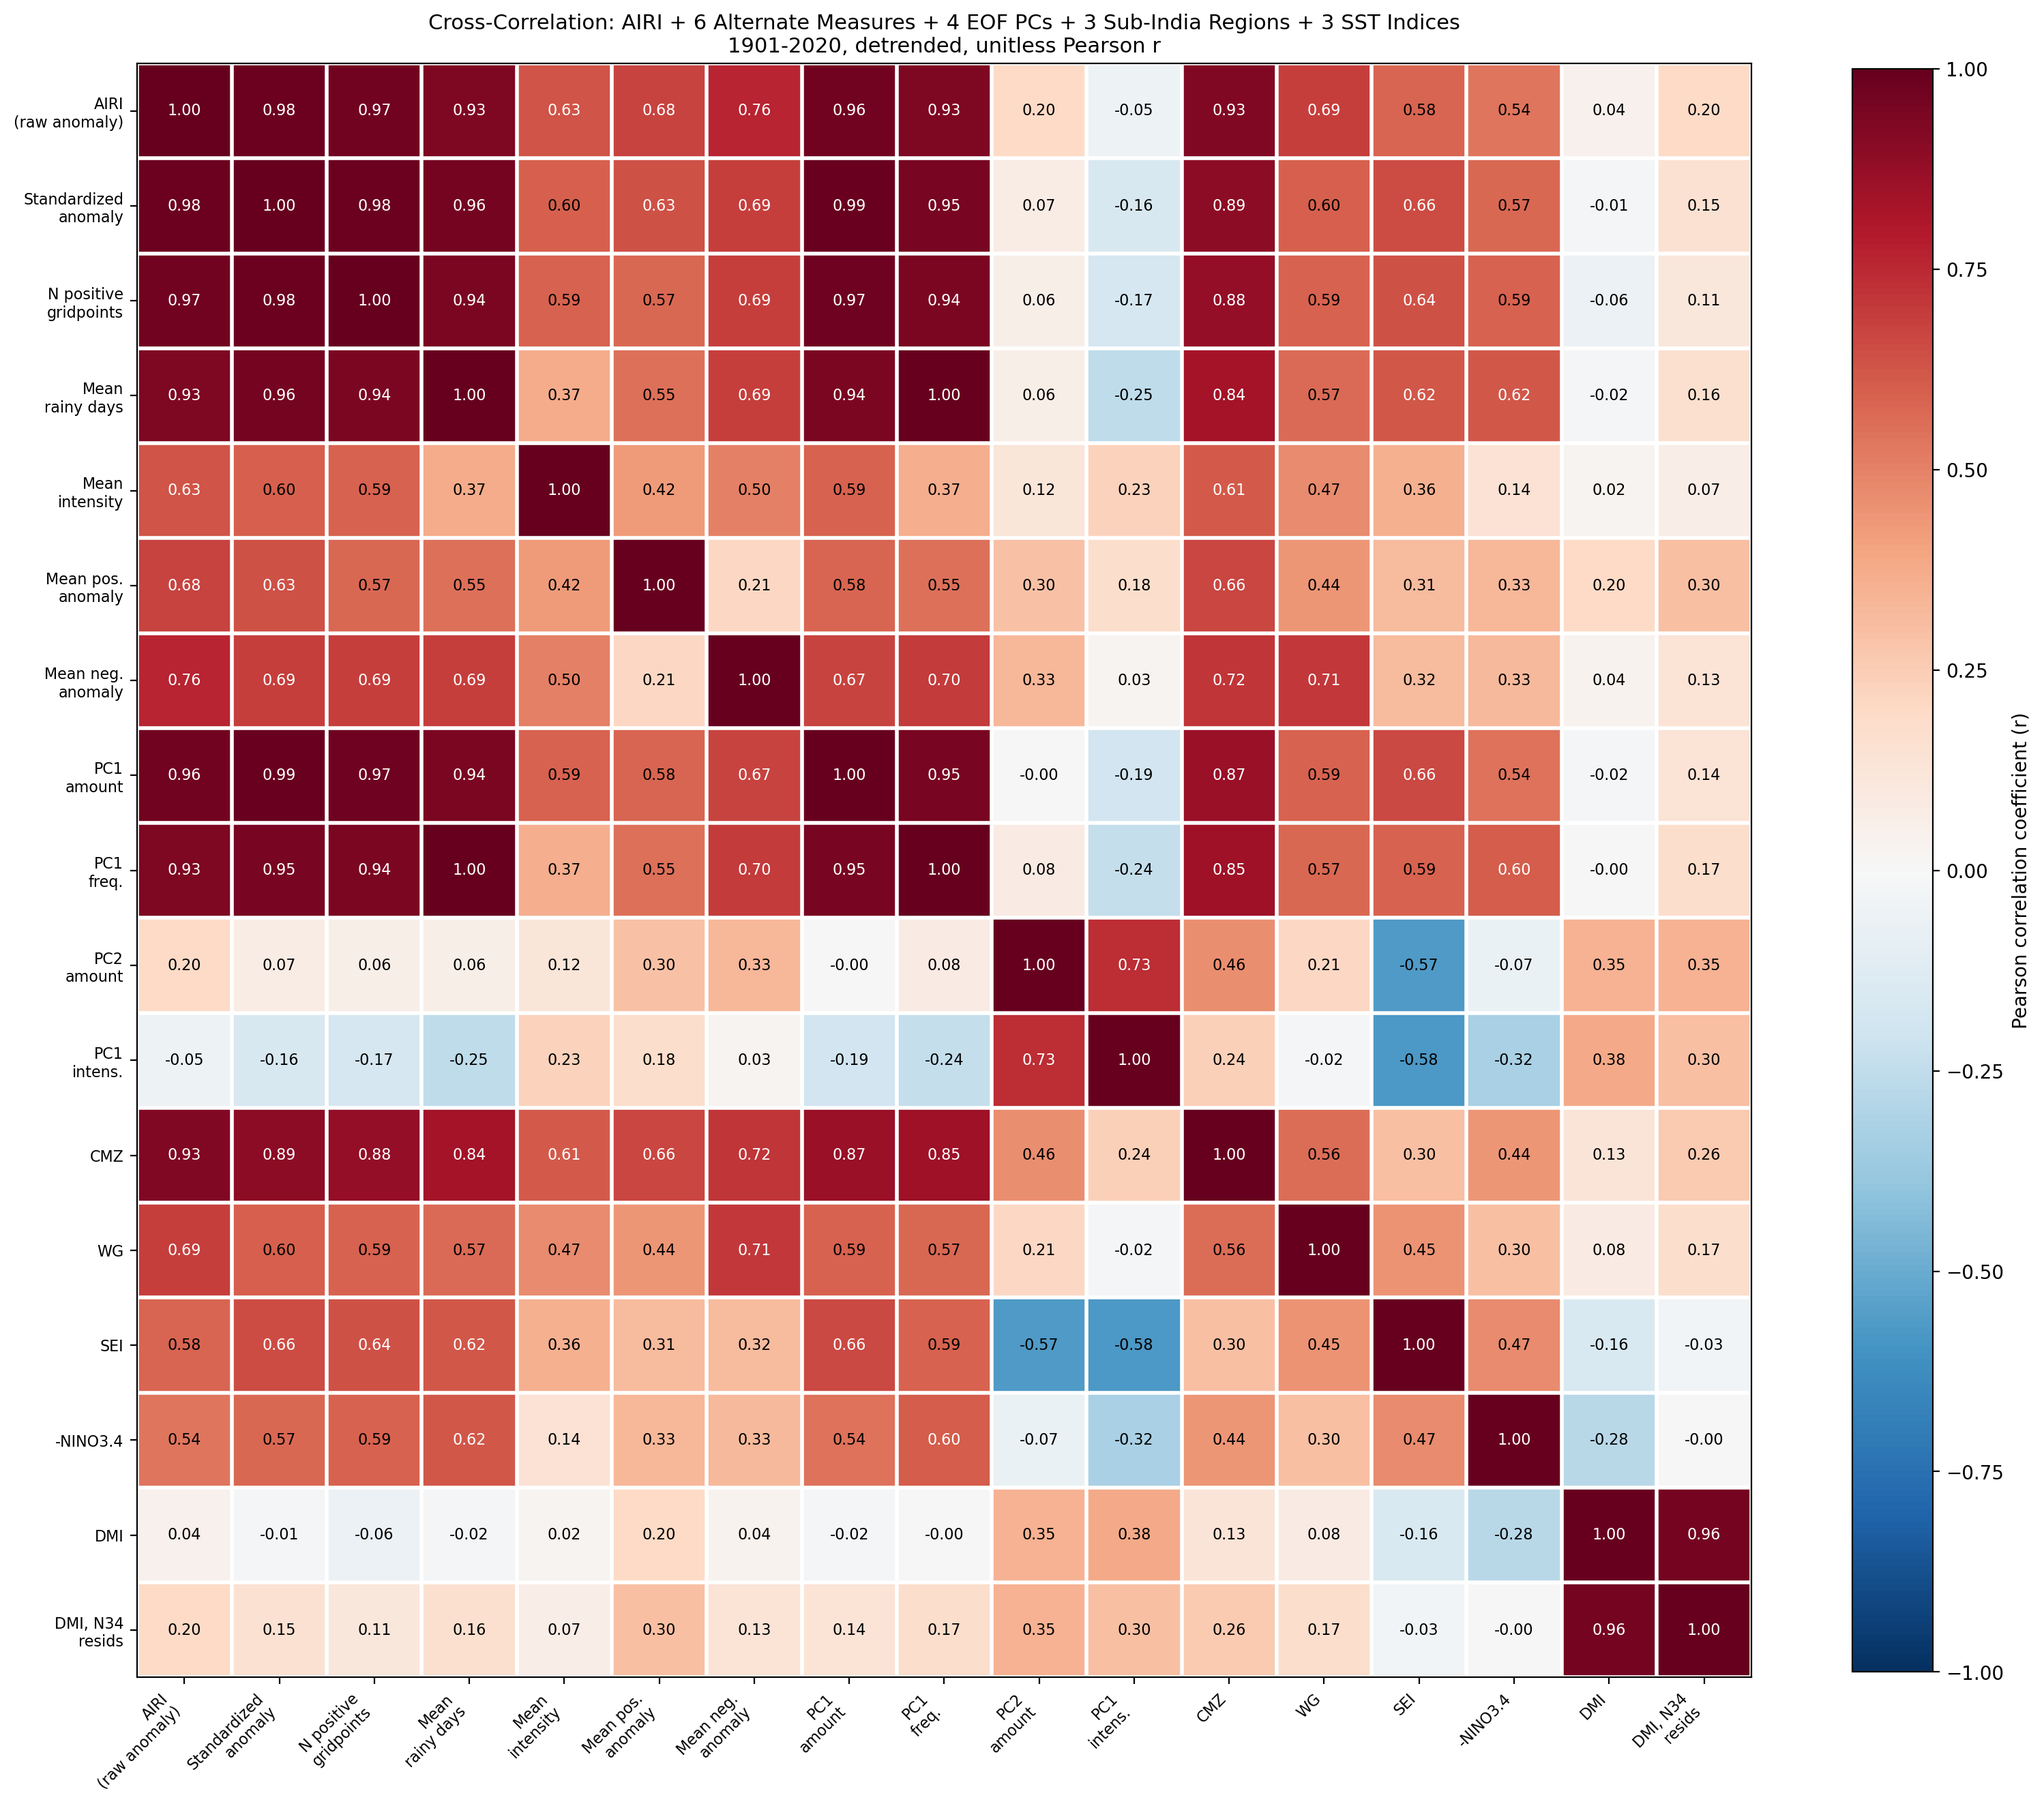
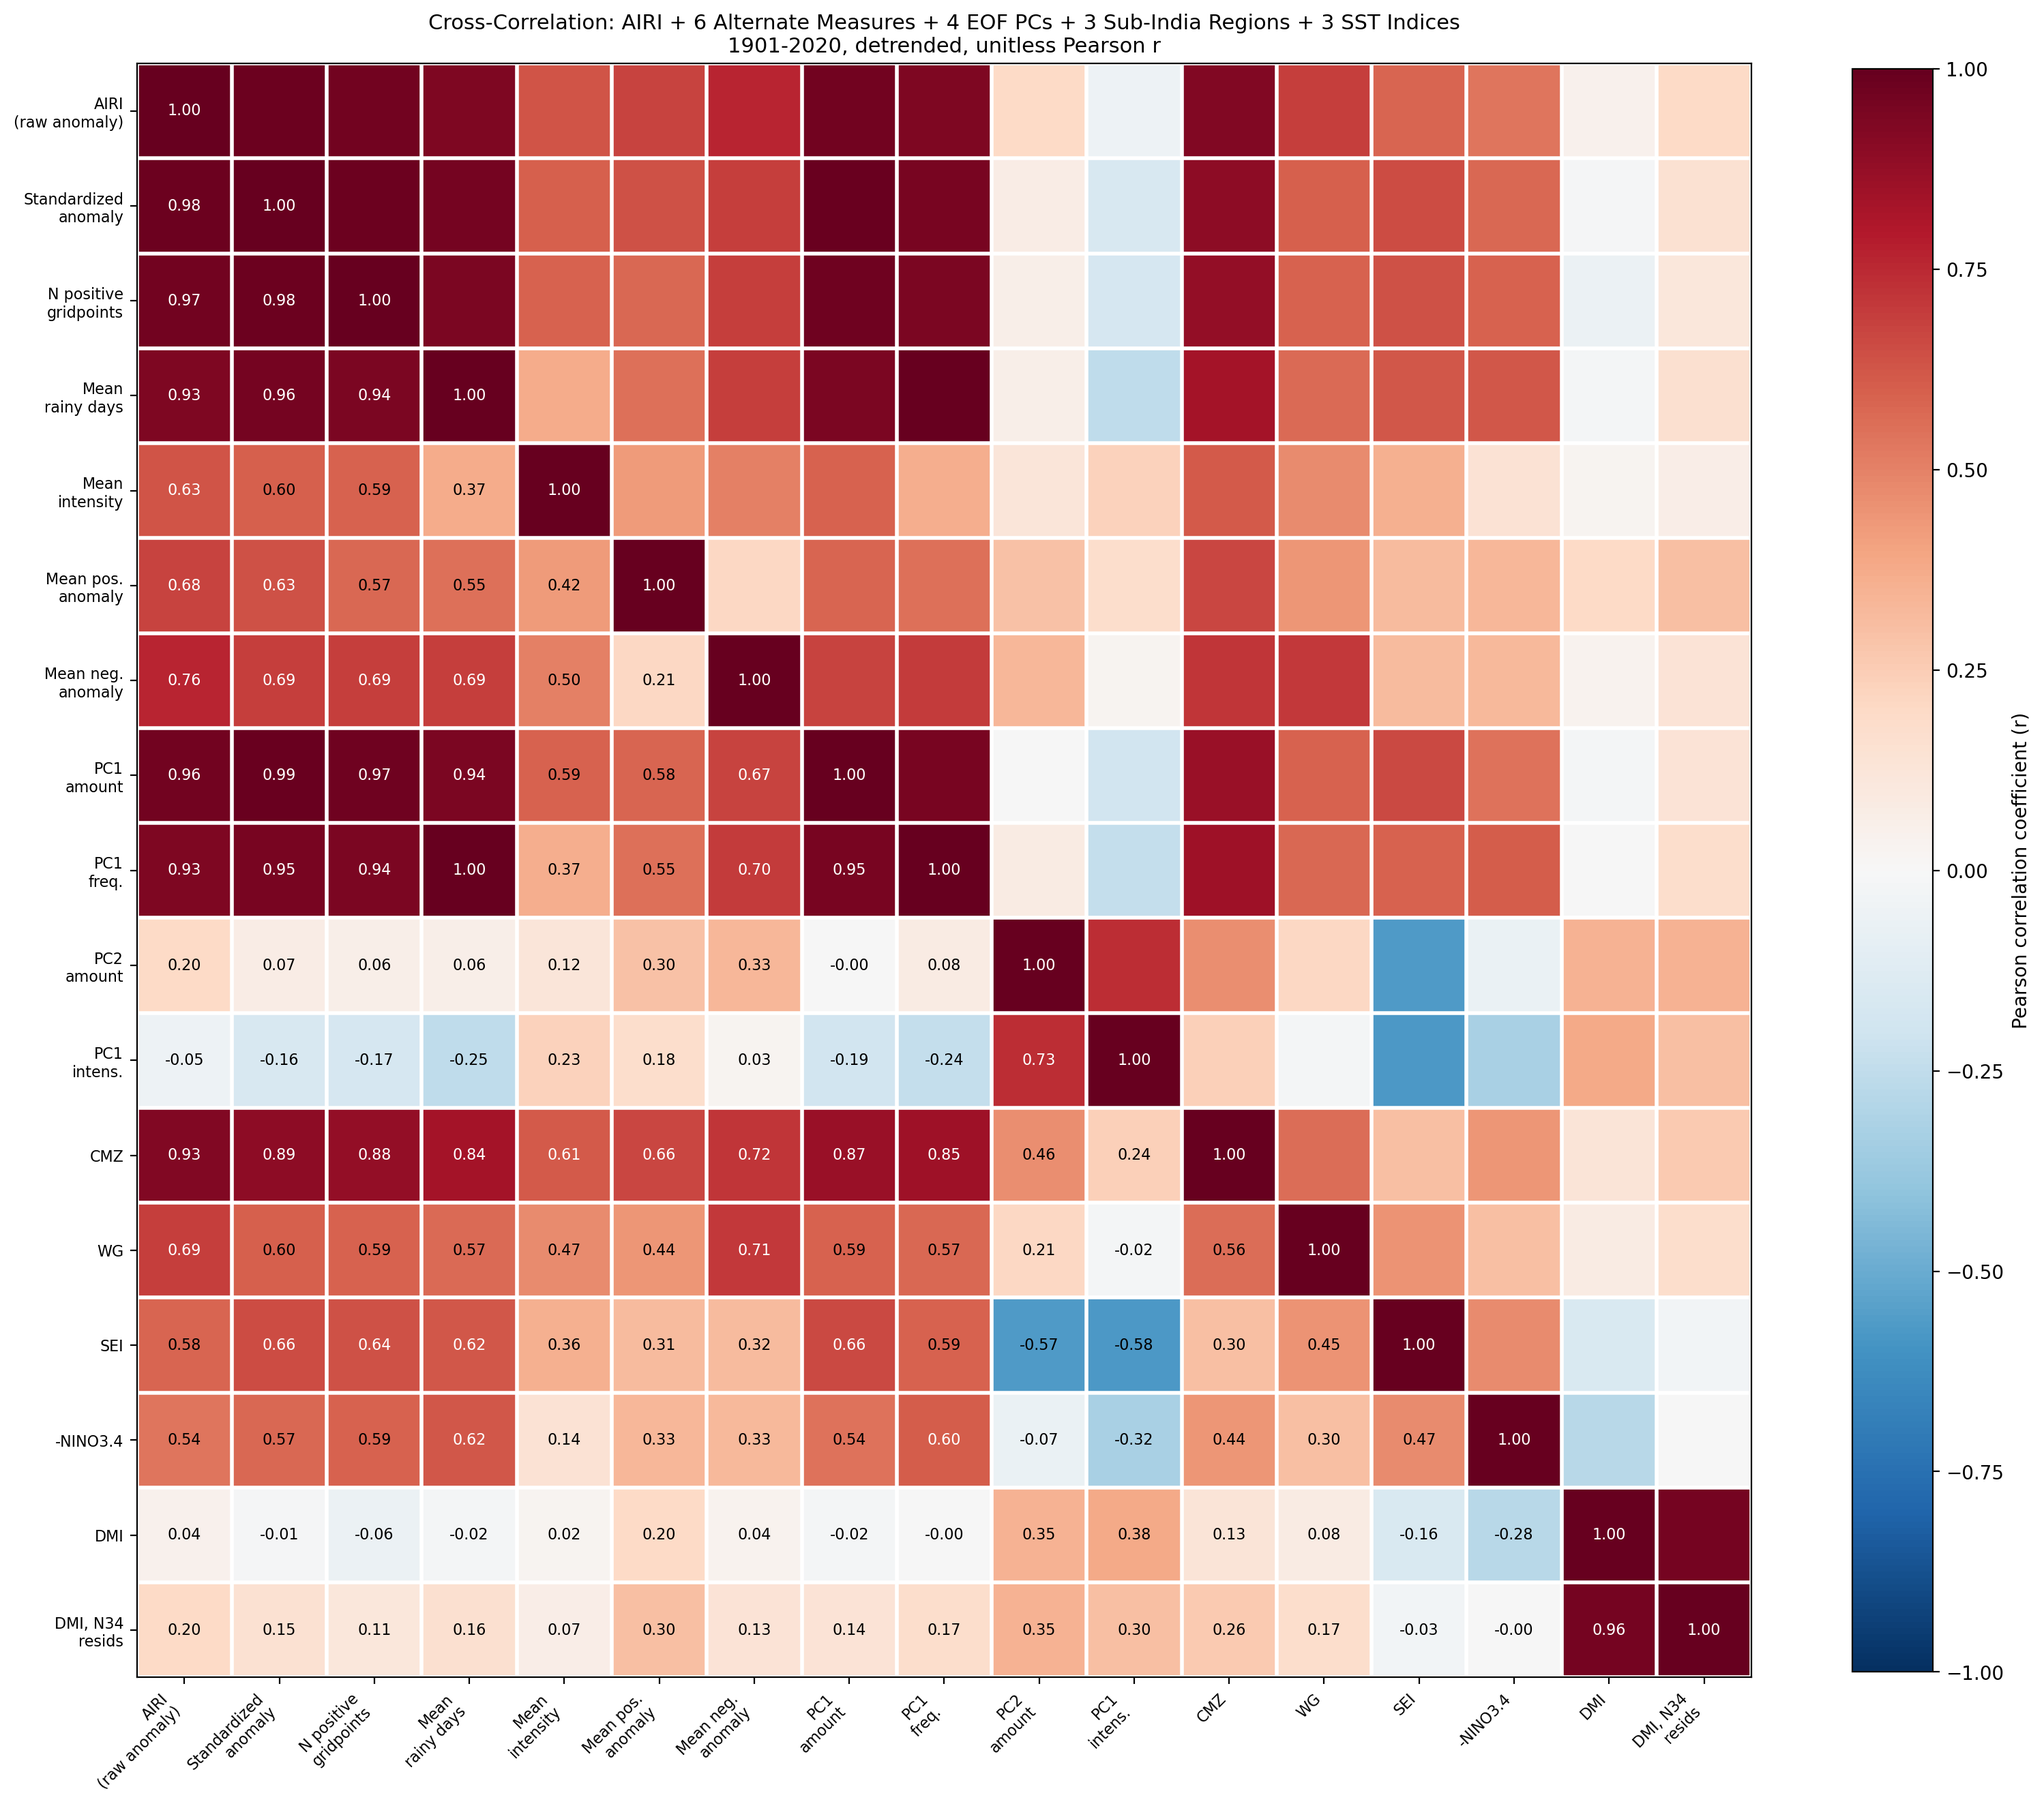
Drop redundant upper-triangle numbers from the correlation matrix
compute_airi_correlation_matrix.py: the matrix is symmetric, so annotating
both triangles duplicated every value. Now only the diagonal and lower
triangle are labeled with r values; cell coloring is unchanged across the
full matrix.

diff --git a/compute_airi_correlation_matrix.py b/compute_airi_correlation_matrix.py
@@ -101,6 +101,8 @@ ax.tick_params(which='minor', bottom=False, left=False)
 
 for i in range(n):
     for j in range(n):
+        if j > i:
+            continue  # matrix is symmetric - only annotate the diagonal and lower triangle
         val = corr.values[i, j]
         text_color = 'white' if abs(val) > 0.6 else 'black'
         ax.text(j, i, f'{val:.2f}', ha='center', va='center', color=text_color, fontsize=8)
